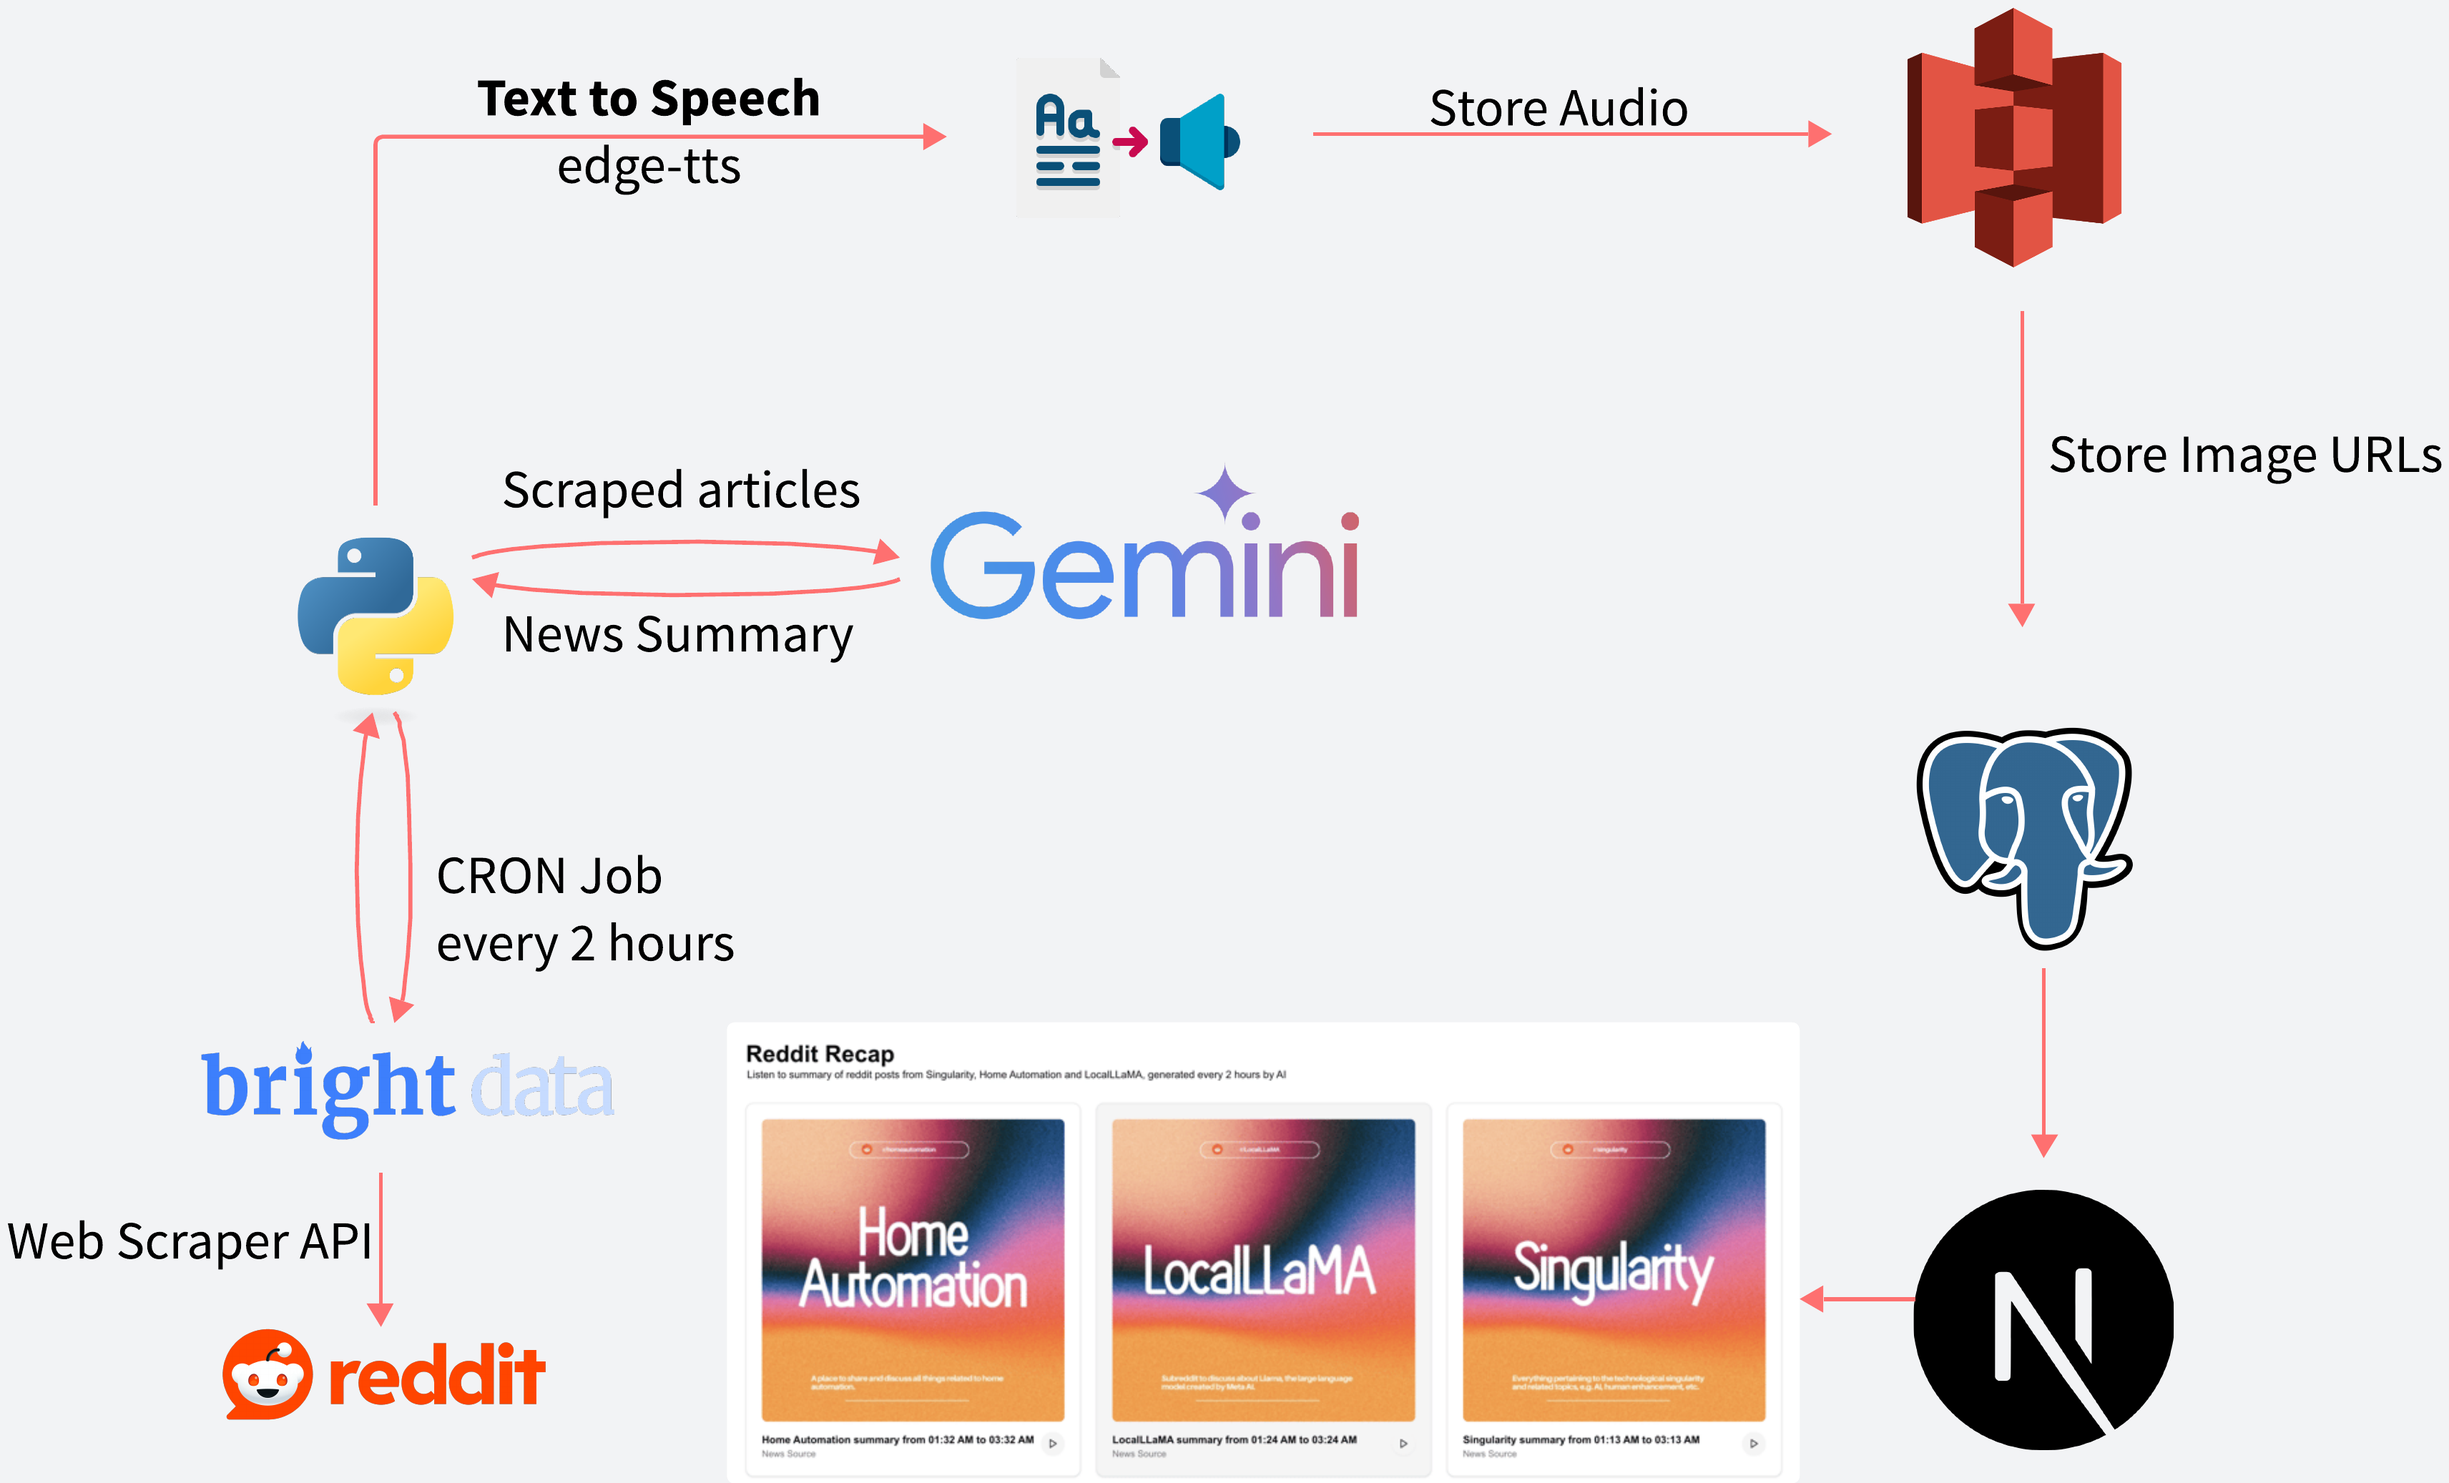
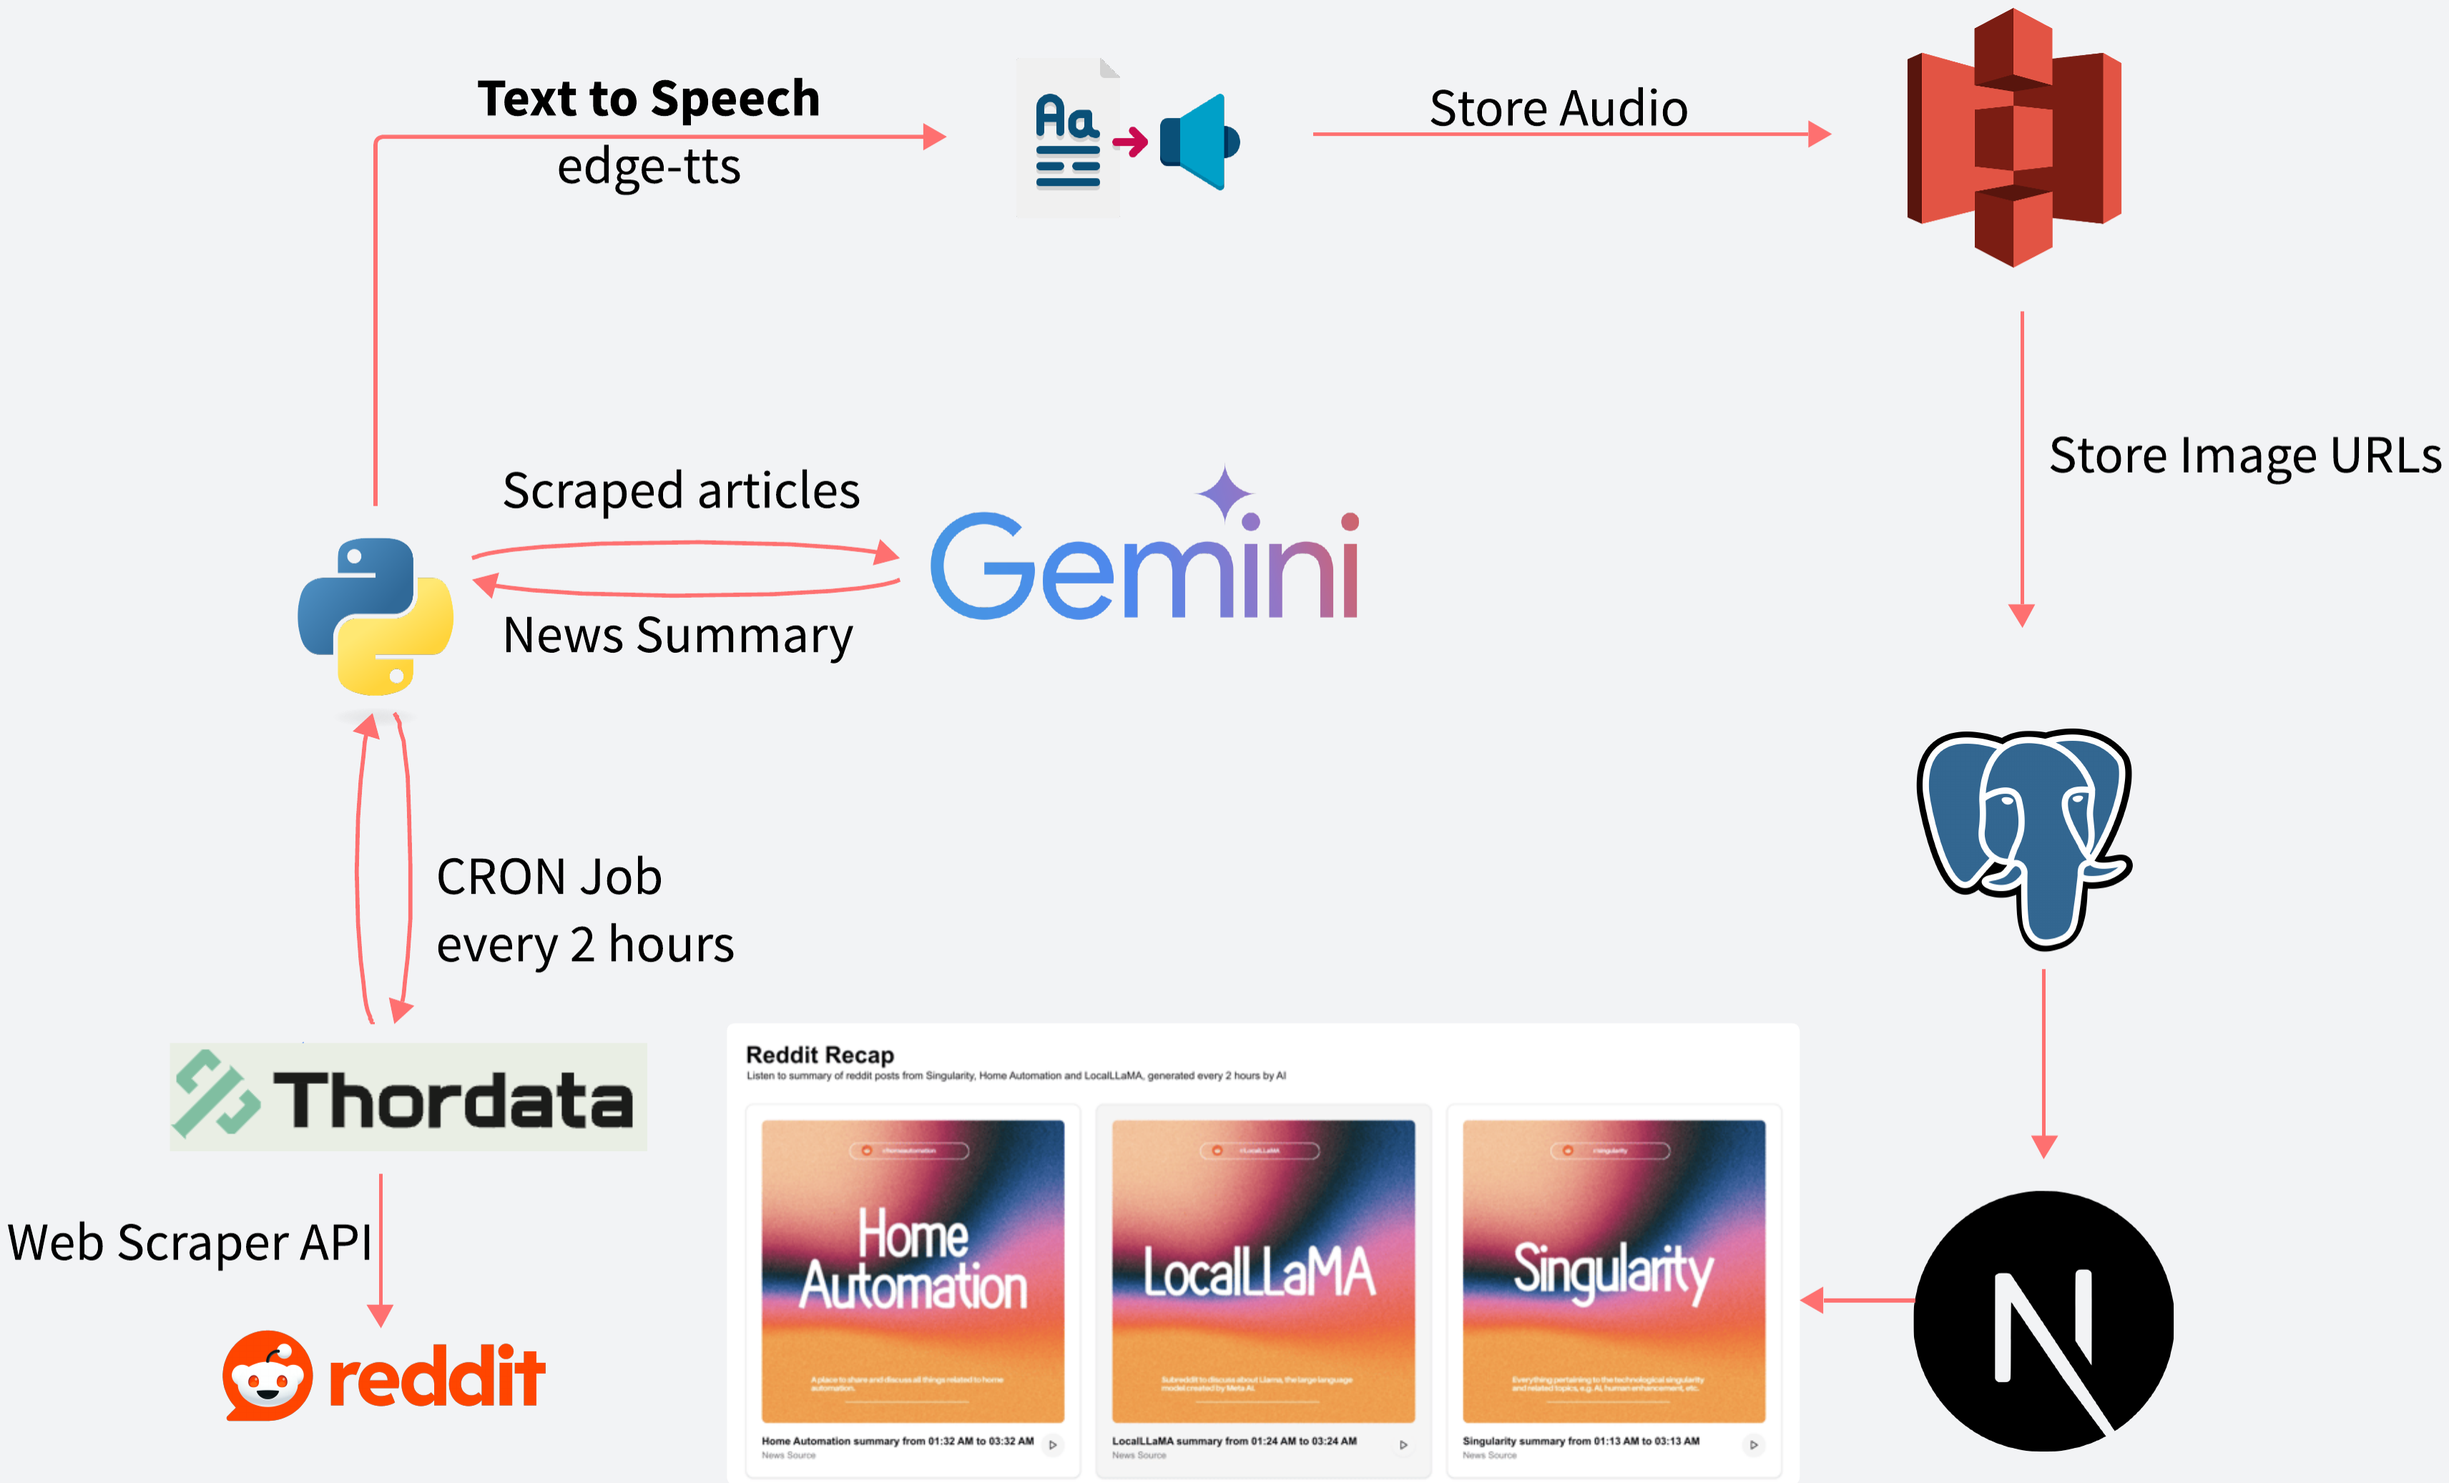
update with thordata

diff --git a/README.md b/README.md
@@ -1,4 +1,4 @@
-## Reddit Recap: Powered by BrightData!
+## Reddit Recap: Powered by Thordata!
 
 ![Reddit Recap](./images/WebApp.png)
 
@@ -6,15 +6,21 @@ Let's face it, Reddit is a treasure trove of information, entertainment, and com
 
 That's why I built [**Reddit Recap**](https://reddit-recap-woad.vercel.app/), an app designed to cut through the noise and deliver concise summaries of what's happening in your chosen subreddits, all conveniently available in a beautiful web app – and even as an audio briefing you can listen to on the go!
 
-As a participant in the [BrightData hackathon](https://dev.to/devteam/join-us-for-the-bright-data-web-scraping-challenge-3000-in-prizes-3mg2), I wanted to tackle a personal problem I've faced: staying up-to-date with the latest discussions and news in the communities I care about. Reddit, with its dynamic content and robust anti-scraping measures, presented the perfect challenge.
+This project is powered by **Thordata**.
 
-### The Reddit Scraping Hurdle: Why BrightData Was Essential
+![Thordata](./images/Thordata.png)
+
+I wanted to tackle a personal problem I've faced: staying up-to-date with the latest discussions and news in the communities I care about. Reddit, with its dynamic content and robust anti-scraping measures, presented the perfect challenge.
+
+### The Reddit Scraping Hurdle: Why Thordata Was Essential
 
 Anyone who's tried to scrape Reddit knows it's not a walk in the park. The platform actively blocks traditional scraping methods, making it incredibly difficult to reliably collect the data you need. IP blocking, CAPTCHAs, and constantly evolving page structures are just some of the obstacles.
 
-This is where **BrightData** came to the rescue. Their robust web scraping infrastructure and pre-built datasets are specifically designed to overcome these challenges. For Reddit Recap, I leveraged BrightData's [Web Scraper API](https://brightdata.com/products/web-scraper), which provides structured and reliable access to Reddit posts and information, bypassing the complexities of building and maintaining my own scraping infrastructure.
+This is where **Thordata** came to the rescue. Their network of fast and reliable residential IPs is specifically designed to overcome these challenges. For Reddit Recap, I leveraged Thordata's proxy network to reliably access Reddit posts and information, bypassing the complexities of building and maintaining my own scraping infrastructure.
 
 This was a game-changer! Instead of spending countless hours battling anti-scraping techniques, I could focus on the core logic of my app: summarizing and presenting the information in a user-friendly way.
+
+Thordata offers a **[Free Trial and a 30% permanent discount](https://www.thordata.com/?ls=EDBORvrR&lk=wb)**, making it incredibly accessible to get started.
 
 ### How Reddit Recap Works: A Peek Under the Hood
 
@@ -22,7 +28,7 @@ This was a game-changer! Instead of spending countless hours battling anti-scrap
 
 Here's a breakdown of the process behind Reddit Recap, as illustrated in the architecture overview:
 
-1. **Targeted Scraping with BrightData:** Using the [BrightData API](https://brightdata.com/cp/data_api/gd_lvz8ah06191smkebj4/subreddit_url?tab=overview), I can efficiently pull the latest top posts from designated subreddits like [r/singularity](https://www.reddit.com/r/singularity/), [r/LocalLLaMA](https://www.reddit.com/r/LocalLLaMA/), and [r/homeautomation](https://www.reddit.com/r/homeautomation/). BrightData handles the heavy lifting of navigating Reddit's structure and bypassing any blocking mechanisms. This is triggered by a **CRON job that runs every 2 hours**, powered by [GitHub Actions](https://github.com/features/actions).
+1. **Targeted Scraping with Thordata:** Using the [Thordata network](https://www.thordata.com/?ls=EDBORvrR&lk=wb), I can efficiently pull the latest top posts from designated subreddits like [r/singularity](https://www.reddit.com/r/singularity/), [r/LocalLLaMA](https://www.reddit.com/r/LocalLLaMA/), and [r/homeautomation](https://www.reddit.com/r/homeautomation/). Thordata handles the heavy lifting of routing requests through its residential IPs to avoid any blocking mechanisms. This is triggered by a **CRON job that runs every 2 hours**, powered by [GitHub Actions](https://github.com/features/actions).
 
 2. **News Summary with Gemini:** The raw scraped data is then fed into a Python script (`llm.py`) which utilizes **Google Gemini**. A carefully crafted prompt instructs Gemini to summarize the key news and discussions from the scraped posts, acting like a professional news anchor delivering concise updates. The prompt also specifies the subreddit and the time window for the summary, adding valuable context.
 
@@ -33,16 +39,6 @@ Here's a breakdown of the process behind Reddit Recap, as illustrated in the arc
 5. **Database for Tracking:** The URL of the stored audio file in S3 is then recorded in a **PostgreSQL database**. This helps manage and link the audio summaries within the web app.
 
 6. **Web App:** Finally, the summarized text and the link to the audio file are presented in an intuitive and visually appealing web application. You can read the summary or simply hit play to listen to the latest Reddit recap for your favorite communities.
-
-**Specifically, How BrightData Makes a Difference:**
-
-The code snippets reveal the core of the BrightData integration:
-
-- **`reddit.py`:** This file handles the communication with BrightData's API. The `create_reddit_scraping_task_using_subreddit` function demonstrates how a scraping task is initiated for a specific subreddit. Crucially, the `get_reddit_scraping_tasks` function leverages the `poll_scraping_tasks` function (in `common.py`) to ensure the data is fully available before proceeding. This reliable data retrieval is the key benefit of using BrightData.
-
-- **`.github/workflows/scrape_posts.yaml`:** This workflow showcases how the scraping and summarization process is automated on a schedule using GitHub Actions, ensuring the 2-hour update frequency.
-
-Without BrightData, building this application would have been significantly more complex and time-consuming. The focus would have been on overcoming technical scraping challenges rather than delivering valuable summarized content to users.
 
 ### The Benefits of Reddit Recap
 
